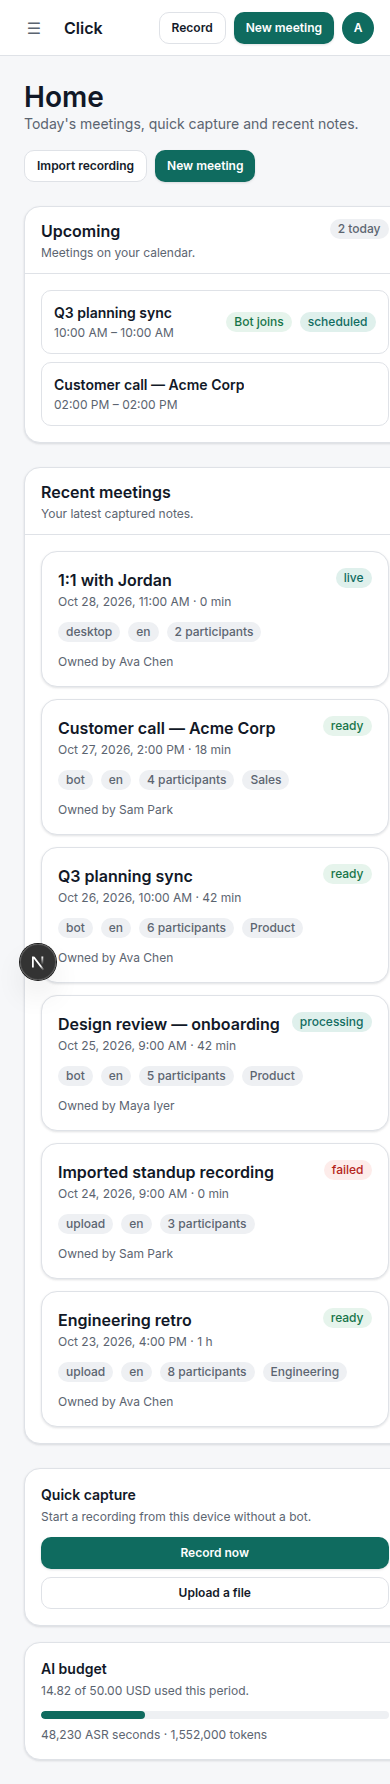
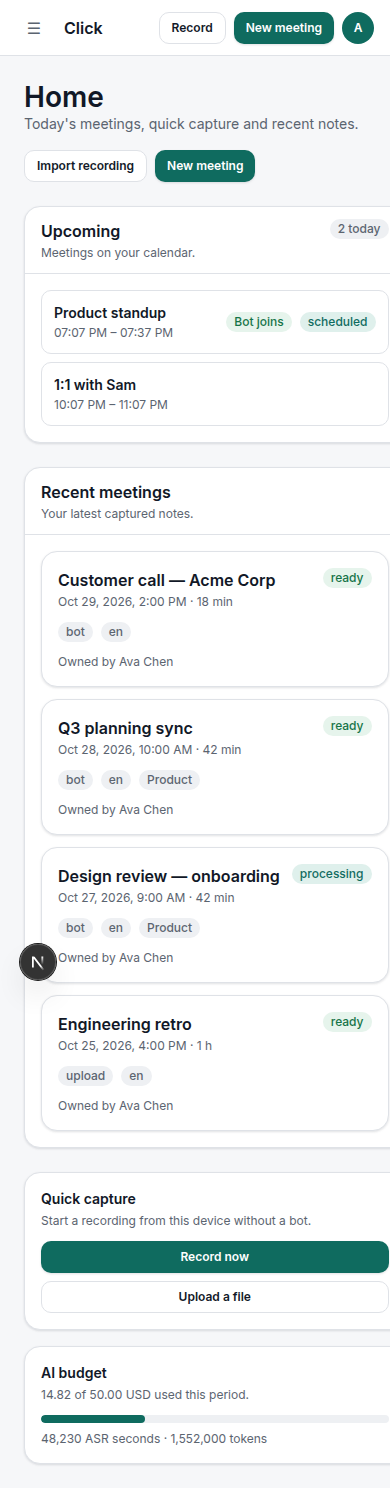
build: S07 home

diff --git a/apps/web/src/app/(workspace)/app/home-actions.tsx b/apps/web/src/app/(workspace)/app/home-actions.tsx
@@ -1,0 +1,173 @@
+"use client";
+
+import { useEffect, useRef, useState } from "react";
+import { useRouter } from "next/navigation";
+import { Banner, Button, Dialog, Field, Input, useToast } from "@click/ui";
+
+/**
+ * "New meeting" creates a real meeting row over POST /api/v1/meetings and
+ * opens its workspace. "Record now" captures the microphone in the browser and
+ * uploads the clip through POST /api/v1/uploads, which starts transcription.
+ */
+export function NewMeetingButton({ className }: { className?: string }) {
+  const router = useRouter();
+  const toast = useToast();
+  const [open, setOpen] = useState(false);
+  const [title, setTitle] = useState("");
+  const [busy, setBusy] = useState(false);
+  const [error, setError] = useState<string | null>(null);
+
+  const create = async () => {
+    setBusy(true);
+    setError(null);
+    const response = await fetch("/api/v1/meetings", {
+      method: "POST",
+      headers: { "Content-Type": "application/json" },
+      body: JSON.stringify({ title: title.trim() || "Untitled meeting", source: "web" }),
+    });
+    const payload = (await response.json().catch(() => ({}))) as {
+      meeting?: { id: string };
+      error?: { message?: string };
+    };
+    setBusy(false);
+    if (!response.ok || !payload.meeting) {
+      setError(payload.error?.message ?? "The meeting could not be created.");
+      return;
+    }
+    toast.push({ tone: "success", title: "Meeting created" });
+    setOpen(false);
+    router.push(`/app/meetings/${payload.meeting.id}`);
+  };
+
+  return (
+    <>
+      <Button size="sm" className={className} onClick={() => setOpen(true)}>
+        New meeting
+      </Button>
+      <Dialog
+        open={open}
+        onClose={() => setOpen(false)}
+        title="New meeting"
+        description="Create an empty meeting and add notes, or send a bot from the meeting workspace."
+        footer={
+          <>
+            <Button variant="ghost" size="sm" onClick={() => setOpen(false)}>
+              Cancel
+            </Button>
+            <Button size="sm" loading={busy} onClick={() => void create()}>
+              Create meeting
+            </Button>
+          </>
+        }
+      >
+        <div className="grid gap-3">
+          <Field label="Title" htmlFor="new-meeting-title" error={error ?? undefined}>
+            <Input
+              id="new-meeting-title"
+              value={title}
+              placeholder="Weekly sync"
+              onChange={(event) => setTitle(event.target.value)}
+            />
+          </Field>
+        </div>
+      </Dialog>
+    </>
+  );
+}
+
+export function RecordNowButton({ className }: { className?: string }) {
+  const router = useRouter();
+  const toast = useToast();
+  const recorderRef = useRef<MediaRecorder | null>(null);
+  const chunksRef = useRef<Blob[]>([]);
+  const streamRef = useRef<MediaStream | null>(null);
+  const [recording, setRecording] = useState(false);
+  const [seconds, setSeconds] = useState(0);
+  const [busy, setBusy] = useState(false);
+  const [error, setError] = useState<string | null>(null);
+
+  useEffect(() => {
+    if (!recording) return;
+    const timer = setInterval(() => setSeconds((value) => value + 1), 1000);
+    return () => clearInterval(timer);
+  }, [recording]);
+
+  const start = async () => {
+    setError(null);
+    if (!navigator.mediaDevices?.getUserMedia) {
+      setError("This browser cannot record audio.");
+      return;
+    }
+    try {
+      const stream = await navigator.mediaDevices.getUserMedia({ audio: true });
+      const recorder = new MediaRecorder(stream);
+      chunksRef.current = [];
+      recorder.ondataavailable = (event) => {
+        if (event.data.size > 0) chunksRef.current.push(event.data);
+      };
+      recorder.onstop = () => {
+        void upload();
+      };
+      recorder.start();
+      recorderRef.current = recorder;
+      streamRef.current = stream;
+      setRecording(true);
+      setSeconds(0);
+    } catch {
+      setError("Microphone access was denied. Allow it in your browser to record.");
+    }
+  };
+
+  const stop = () => {
+    recorderRef.current?.stop();
+    recorderRef.current = null;
+    streamRef.current?.getTracks().forEach((track) => track.stop());
+    streamRef.current = null;
+    setRecording(false);
+  };
+
+  const upload = async () => {
+    setBusy(true);
+    const blob = new Blob(chunksRef.current, { type: "audio/webm" });
+    chunksRef.current = [];
+    if (blob.size === 0) {
+      setBusy(false);
+      setError("Nothing was captured. Try recording again.");
+      return;
+    }
+    const form = new FormData();
+    form.append("file", new File([blob], "recording.webm", { type: "audio/webm" }));
+    form.append("title", `Recording ${new Date().toLocaleString()}`);
+    const response = await fetch("/api/v1/uploads", { method: "POST", body: form });
+    const payload = (await response.json().catch(() => ({}))) as {
+      meeting?: { id: string };
+      error?: { message?: string };
+    };
+    setBusy(false);
+    if (!response.ok || !payload.meeting) {
+      setError(payload.error?.message ?? "The recording could not be uploaded.");
+      return;
+    }
+    toast.push({ tone: "success", title: "Recording uploaded", description: "Transcription has started." });
+    router.push(`/app/meetings/${payload.meeting.id}`);
+  };
+
+  return (
+    <div className={className}>
+      {recording ? (
+        <Button size="sm" className="w-full" onClick={stop}>
+          Stop recording · {seconds}s
+        </Button>
+      ) : (
+        <Button size="sm" className="w-full" loading={busy} onClick={() => void start()}>
+          Record now
+        </Button>
+      )}
+      {error ? (
+        <Banner tone="danger" title="Recording unavailable" className="mt-2">
+          {error}
+        </Banner>
+      ) : null}
+    </div>
+  );
+}

diff --git a/apps/web/src/app/(workspace)/app/page.tsx b/apps/web/src/app/(workspace)/app/page.tsx
@@ -5,21 +5,28 @@ import {
   CardHeader,
   Badge,
   EmptyState,
-  Skeleton,
 } from "@click/ui";
-import { data } from "@click/core";
-import { getUsage, listMeetings } from "@/lib/api";
 import { CalendarEventCard, MeetingCard } from "@click/ui";
+import { calendarsRepo, meetingsRepo, workspaceRepo } from "@click/db";
+import { requireOrgSession } from "@/server/auth";
+import { NewMeetingButton, RecordNowButton } from "./home-actions";
 
 export default async function HomePage() {
+  const session = await requireOrgSession();
+  const ctx = { orgId: session.orgId, userId: session.id };
+  const now = Date.now();
+
   const [{ meetings }, events, usage] = await Promise.all([
-    listMeetings({ limit: 6 }),
-    data.listCalendarEvents(),
-    getUsage(),
+    meetingsRepo.listMeetings(ctx, { limit: 6 }),
+    calendarsRepo.listCalendarEvents(ctx, {
+      from: new Date(now - 30 * 60 * 1000),
+      to: new Date(now + 24 * 60 * 60 * 1000),
+    }),
+    workspaceRepo.getUsage(ctx),
   ]);
 
-  const upcoming = events.filter((e) => new Date(e.startsAt).getTime() > Date.now() - 30 * 60 * 1000);
-  const budgetPct = Math.round((usage.costEstimate / usage.budgetCap) * 100);
+  const upcoming = events.filter((event) => new Date(event.startsAt).getTime() > now - 30 * 60 * 1000);
+  const budgetPct = usage.budgetCap > 0 ? Math.round((usage.costEstimate / usage.budgetCap) * 100) : 0;
 
   return (
     <div className="mx-auto max-w-6xl p-6">
@@ -36,7 +43,7 @@ export default async function HomePage() {
               Import recording
             </Button>
           </Link>
-          <Button size="sm">New meeting</Button>
+          <NewMeetingButton />
         </div>
       </div>
 
@@ -69,7 +76,18 @@ export default async function HomePage() {
                 />
               ) : (
                 upcoming.map((event) => (
-                  <CalendarEventCard key={event.id} event={event} />
+                  <CalendarEventCard
+                    key={event.id}
+                    event={{
+                      id: event.id,
+                      title: event.title ?? "Untitled meeting",
+                      startsAt: event.startsAt,
+                      endsAt: event.endsAt,
+                      meetingUrl: event.meetingUrl,
+                      autoJoin: event.autoJoin,
+                      botStatus: event.botStatus as never,
+                    }}
+                  />
                 ))
               )}
             </div>
@@ -87,10 +105,10 @@ export default async function HomePage() {
                       meeting={{
                         id: meeting.id,
                         title: meeting.title,
-                        startedAt: meeting.startedAt,
+                        startedAt: meeting.startedAt ?? new Date().toISOString(),
                         durationSeconds: meeting.durationSeconds,
-                        source: meeting.source,
-                        status: meeting.status,
+                        source: meeting.source as never,
+                        status: meeting.status as never,
                         language: meeting.language,
                         participantCount: meeting.participantCount,
                         folderName: meeting.folderName,
@@ -111,9 +129,7 @@ export default async function HomePage() {
               Start a recording from this device without a bot.
             </p>
             <div className="mt-3 grid gap-2">
-              <Button size="sm" className="w-full">
-                Record now
-              </Button>
+              <RecordNowButton />
               <Link href="/app/import">
                 <Button variant="secondary" size="sm" className="w-full">
                   Upload a file

diff --git a/packages/db/src/repositories/calendars.ts b/packages/db/src/repositories/calendars.ts
@@ -1,6 +1,6 @@
-import { and, asc, eq } from "drizzle-orm";
+import { and, asc, eq, gte, lte } from "drizzle-orm";
 import { withTenant, type TenantContext } from "../client";
-import { calendarConnections } from "../schema";
+import { calendarConnections, calendarEvents } from "../schema";
 
 export interface CalendarConnectionRow {
   id: string;
@@ -63,5 +63,54 @@ export async function deleteCalendarConnection(ctx: TenantContext, id: string): 
       .where(and(eq(calendarConnections.id, id), eq(calendarConnections.orgId, ctx.orgId)))
       .returning({ id: calendarConnections.id });
     return { ok: rows.length > 0 };
+  });
+}
+
+export interface CalendarEventRow {
+  id: string;
+  title: string | null;
+  startsAt: string;
+  endsAt: string;
+  meetingUrl: string | null;
+  provider: string | null;
+  autoJoin: boolean;
+  botStatus: string;
+}
+
+export async function listCalendarEvents(
+  ctx: TenantContext,
+  range: { from: Date; to: Date },
+): Promise<CalendarEventRow[]> {
+  return withTenant(ctx, async (tx) => {
+    const rows = await tx
+      .select({
+        id: calendarEvents.id,
+        title: calendarEvents.title,
+        startsAt: calendarEvents.startsAt,
+        endsAt: calendarEvents.endsAt,
+        meetingUrl: calendarEvents.meetingUrl,
+        provider: calendarEvents.provider,
+        autoJoin: calendarEvents.autoJoin,
+        botStatus: calendarEvents.botStatus,
+      })
+      .from(calendarEvents)
+      .where(
+        and(
+          eq(calendarEvents.orgId, ctx.orgId),
+          gte(calendarEvents.endsAt, range.from),
+          lte(calendarEvents.startsAt, range.to),
+        ),
+      )
+      .orderBy(asc(calendarEvents.startsAt));
+    return rows.map((row) => ({
+      id: row.id,
+      title: row.title,
+      startsAt: row.startsAt.toISOString(),
+      endsAt: row.endsAt.toISOString(),
+      meetingUrl: row.meetingUrl,
+      provider: row.provider,
+      autoJoin: row.autoJoin,
+      botStatus: row.botStatus,
+    }));
   });
 }

diff --git a/replica/build-log.md b/replica/build-log.md
@@ -77,3 +77,4 @@ Screens below moved from the bundled demo data to the real API. See
 - S61 | 2026-10-30 | done | Bot console at `/bot/console`: queued, joining, active and failed bot jobs with lobby reason, error and attempts. Backed by GET /api/v1/bot-jobs (owner/admin only).
 - S63 | 2026-10-30 | done | Bot chat notice at `/bot/notice`: edit the message posted in the meeting chat when the bot joins. Backed by GET/PUT /api/v1/bot/notice stored in the organization settings blob.
 - S09 | 2026-10-30 | done | Live meeting at `/app/meetings/[id]/live`: live transcript with timestamps and speakers plus capture status. Backed by GET /api/v1/meetings/[id] and GET /api/v1/meetings/[id]/segments.
+- S07 | 2026-10-30 | done | Home at `/app`: upcoming calendar events, recent meetings and the AI budget chip read straight from the database. "New meeting" creates a meeting over POST /api/v1/meetings; "Record now" captures the microphone with MediaRecorder and uploads it to POST /api/v1/uploads.
